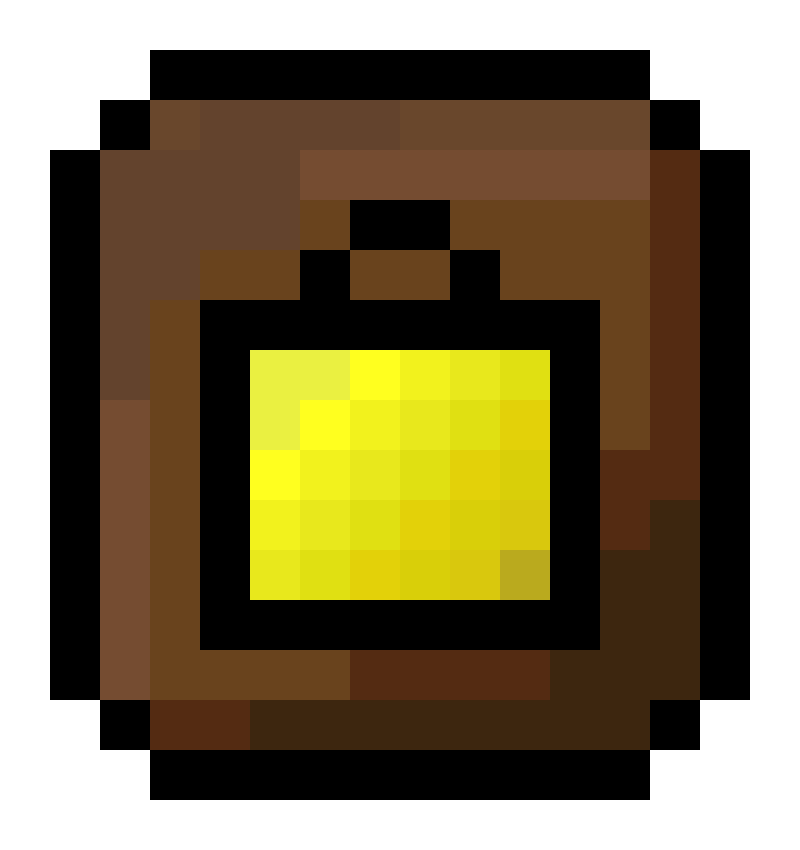
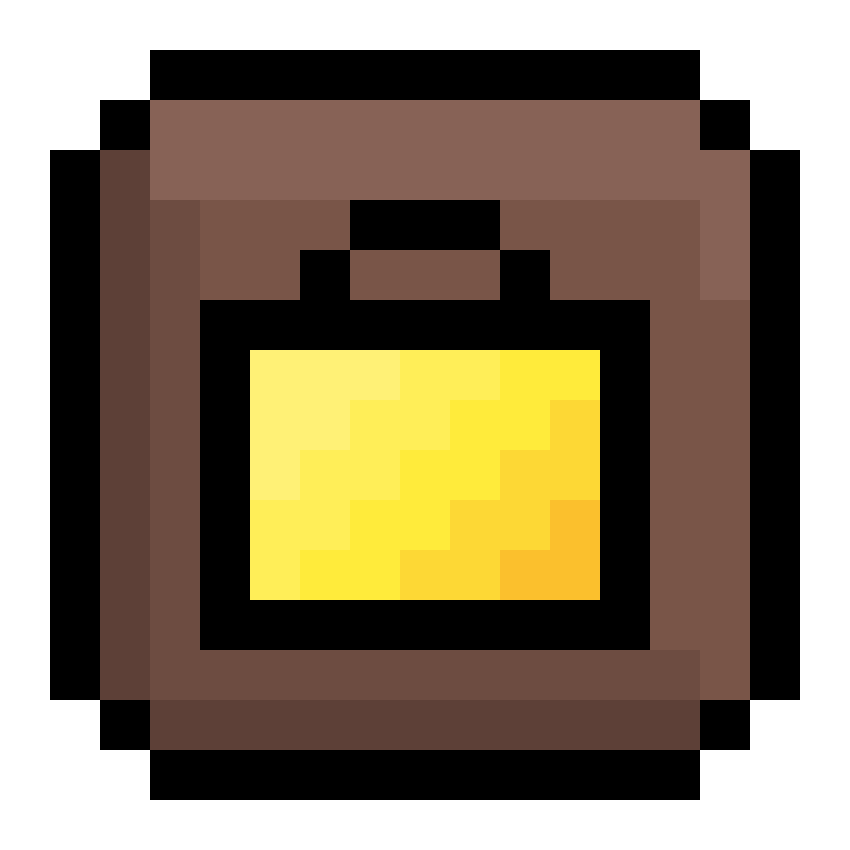
added hover state to shop and other main game interface

diff --git a/source/core/src/main/com/deco2800/game/components/maingame/MainGameInterface.java b/source/core/src/main/com/deco2800/game/components/maingame/MainGameInterface.java
@@ -437,20 +437,51 @@ public class MainGameInterface extends UIComponent {
     placeButton.setPosition(rightBox.getX() + 120f, rightBox.getY() + 135f);
 
     // Entering the Shop Button
-    Texture shopTexture = new Texture(Gdx.files.internal("images/Shop.png"));
+    Texture shopTexture = new Texture(Gdx.files.internal("images/shop.png"));
+    Texture shopTextureOnClick = new Texture(Gdx.files.internal("images/shop_onClick.png"));
     TextureRegionDrawable upShop = new TextureRegionDrawable(shopTexture);
     TextureRegionDrawable downShop = new TextureRegionDrawable(shopTexture);
-    ImageButton shopButton = new ImageButton(upShop, downShop);
+    TextureRegionDrawable shopChecked = new TextureRegionDrawable(shopTextureOnClick);
+    ImageButton shopButton = new ImageButton(upShop, downShop, shopChecked);
+
+    shopButton.addListener(
+            new InputListener() {
+              @Override
+              public void enter(InputEvent event, float x, float y, int pointer, Actor actor) {
+                shopButton.setChecked(true);
+              }
+
+              @Override
+              public void exit(InputEvent event, float x, float y, int pointer, Actor actor) {
+                shopButton.setChecked(false);
+              }
+            });
+
 
     // Entering the Inventory Button -- need to add the inventory button
     Texture inventoryTexture = new Texture(Gdx.files.internal("images/inventory.png"));
+    Texture inventoryOnClickTexture = new Texture(Gdx.files.internal("images/inventory_OnClick.png"));
     TextureRegionDrawable downInventory = new TextureRegionDrawable(inventoryTexture);
     TextureRegionDrawable upInventory = new TextureRegionDrawable(inventoryTexture);
-    ImageButton inventoryButton = new ImageButton(upInventory, downInventory);
+    TextureRegionDrawable inventoryChecked = new TextureRegionDrawable(inventoryOnClickTexture);
+    ImageButton inventoryButton = new ImageButton(upInventory, downInventory, inventoryChecked);
+
+    inventoryButton.addListener(
+            new InputListener() {
+              @Override
+              public void enter(InputEvent event, float x, float y, int pointer, Actor actor) {
+                inventoryButton.setChecked(true);
+              }
+
+              @Override
+              public void exit(InputEvent event, float x, float y, int pointer, Actor actor) {
+                inventoryButton.setChecked(false);
+              }
+            });
 
     // the achievements button
-    Texture achievementsTexture = new Texture(Gdx.files.internal("images/Achievements.png"));
-    Texture achievementsTextureOnClick = new Texture(Gdx.files.internal("images/achievemnets_onclick.png"));
+    Texture achievementsTexture = new Texture(Gdx.files.internal("images/achievemnets_onclick.png"));
+    Texture achievementsTextureOnClick = new Texture(Gdx.files.internal("images/Achievements.png"));
     TextureRegionDrawable upAchievements = new TextureRegionDrawable(achievementsTexture);
     TextureRegionDrawable downAchievements = new TextureRegionDrawable(achievementsTexture);
     TextureRegionDrawable achievementsChecked = new TextureRegionDrawable(achievementsTextureOnClick);
@@ -478,22 +509,23 @@ public class MainGameInterface extends UIComponent {
     ImageButton guideBookButton = new ImageButton(upGuidebook, downGuidebook);
 
     // trigger for guidebook
-    guideBookButton.addListener(
-        new ChangeListener() {
-          @Override
-          public void changed(ChangeEvent changeEvent, Actor actor) {
+    guideBookButton.addListener(  new ClickListener() {
+      @Override
+      public boolean touchDown (InputEvent event, float x, float y, int pointer, int button) {
             logger.debug("Guidebook button clicked");
             entity.getEvents().trigger("guideBook");
+            return true;
           }
         });
 
     // Triggers an event when the button is pressed.
     inventoryButton.addListener(
-        new ChangeListener() {
-          @Override
-          public void changed(ChangeEvent changeEvent, Actor actor) {
+            new ClickListener() {
+              @Override
+              public boolean touchDown (InputEvent event, float x, float y, int pointer, int button) {
             logger.debug("Inventory button clicked");
             group.setVisible(true);
+            return true;
           }
         });
 
